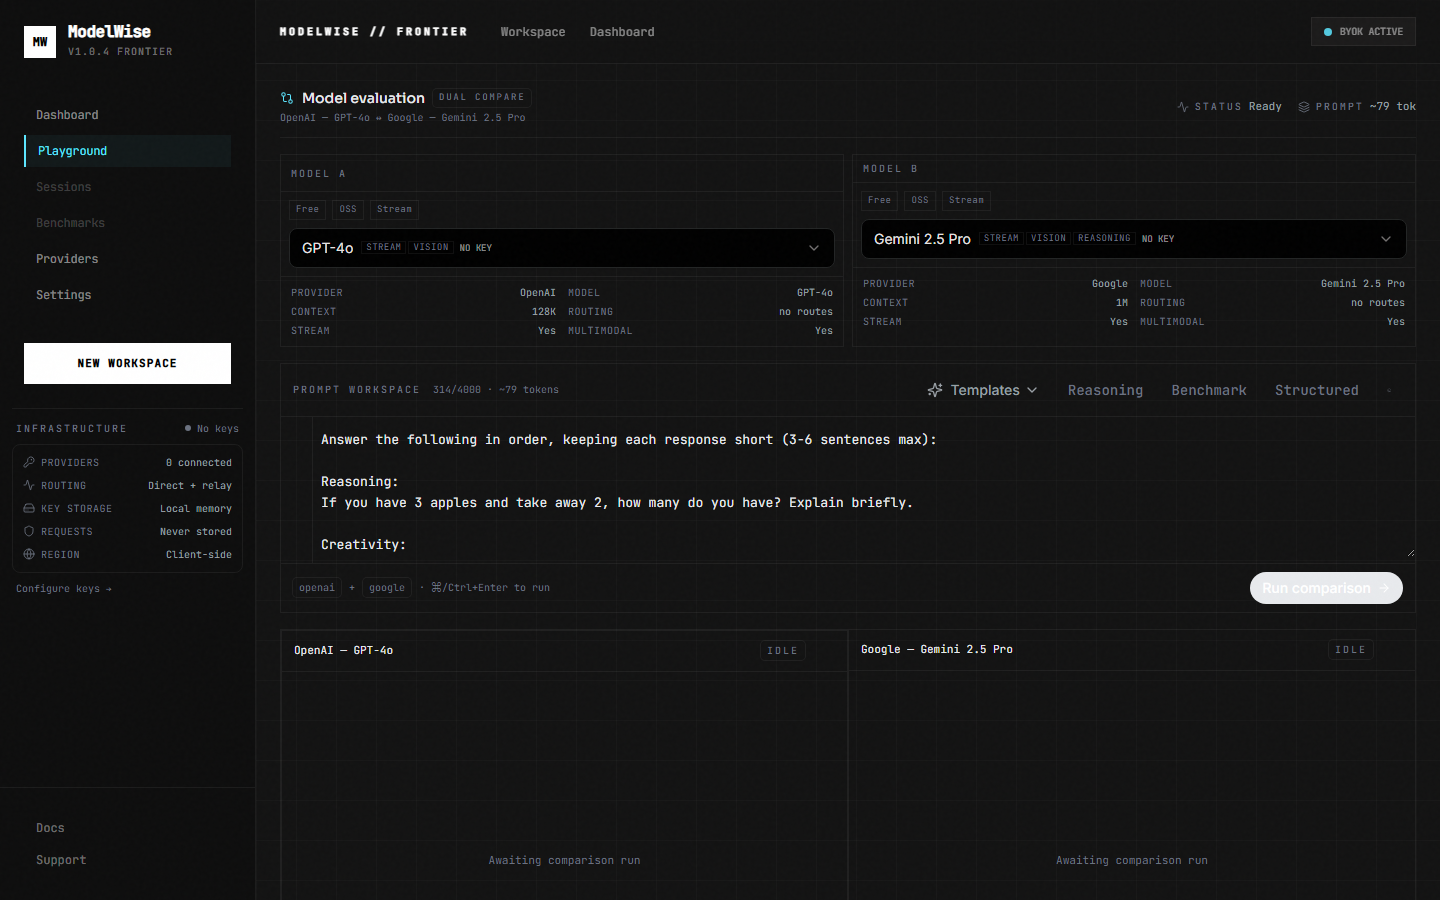
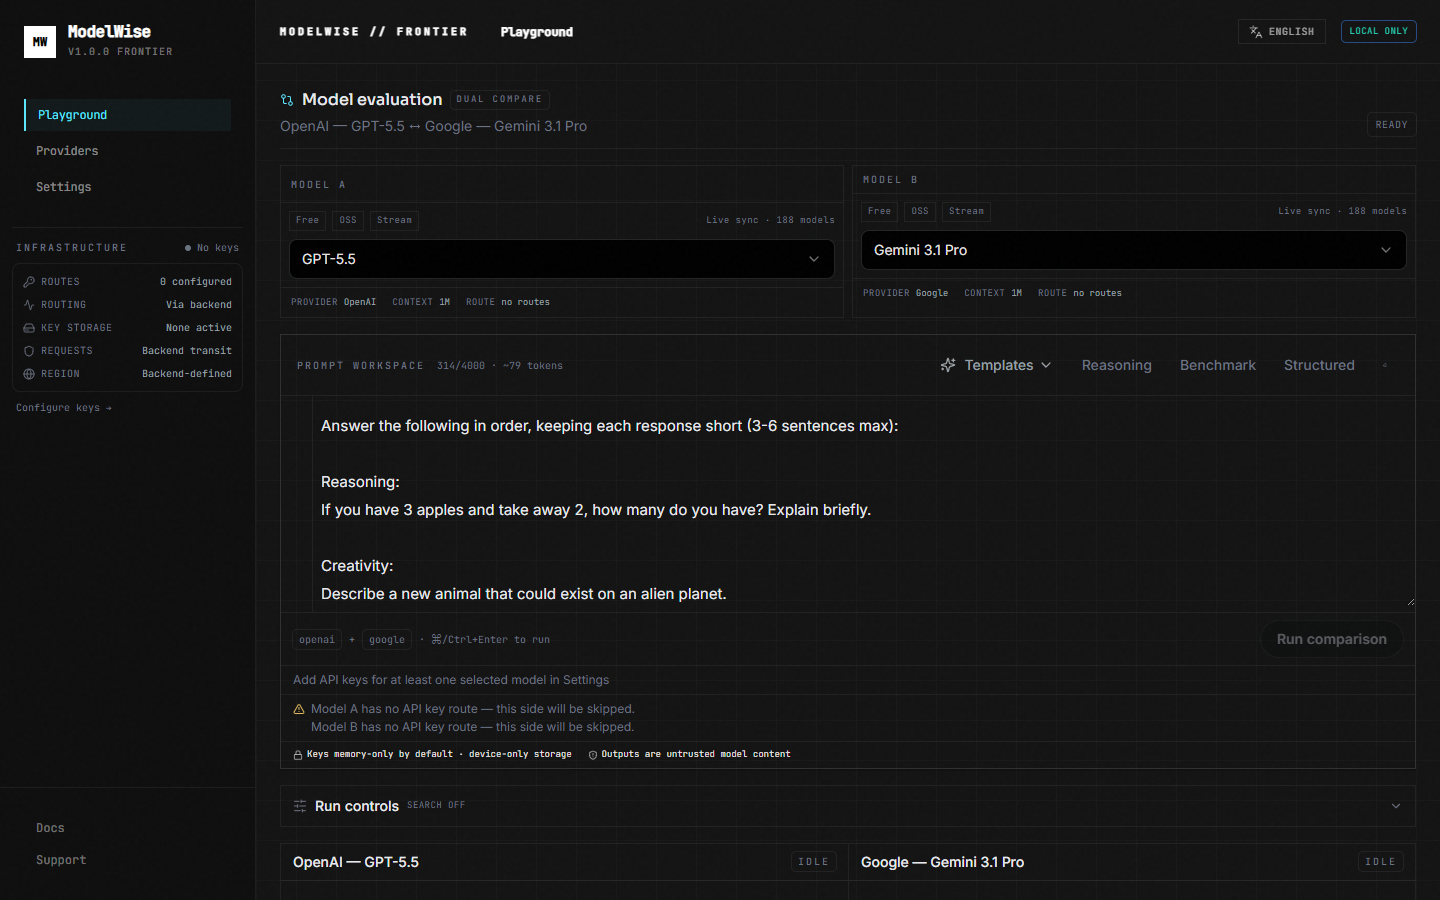
chore: refresh screenshots and dependencies

diff --git a/docs/screenshots/README.md b/docs/screenshots/README.md
@@ -17,6 +17,12 @@ Optional base URL:
 MW_BASE_URL=http://127.0.0.1:8080 npm run screenshots
 ```
 
+Use an installed browser channel instead of Playwright's bundled Chromium when needed:
+
+```bash
+MW_BROWSER_CHANNEL=chrome npm run screenshots
+```
+
 ## Files
 
 | File | Route | Notes |
